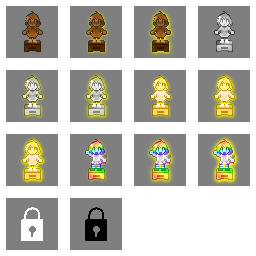
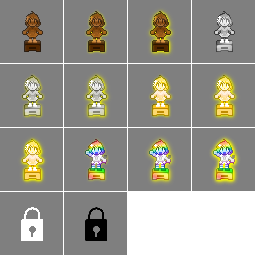
Update: Recordsの実績表示板の縦幅を調整

Changed region(s): [[0.0, 0.0, 1.0, 1.0]]

diff --git a/Src/Scene/Records.js b/Src/Scene/Records.js
@@ -10,7 +10,7 @@ const LinkedLayerTags	= {
 	BG:		"Records.Bg",
 };
 
-const PanelPosition		= {X:96,Y:20};
+const PanelPosition		= {X:16+64,Y:16};
 const RecordBoard	= {
 	MaxRows:			5,
 	MaxColumns:			2,
@@ -20,7 +20,7 @@ const RecordBoard	= {
 const AchievementBoard	= {
 	MaxRows:			4,
 	MaxColumns:			1,
-	Size:				{Width:270, Height:52},
+	Size:				{Width:32*11-64, Height:64-1},
 	NumLogLines:		4,
 };
 RecordBoard.Max			= RecordBoard.MaxRows * RecordBoard.MaxColumns;
@@ -181,7 +181,7 @@ Scene.Records	= class extends Scene.SceneBase {
 					}
 
 					const x	= Math.trunc(i/RecordBoard.MaxRows) * (RecordBoard.Size.Width+4);
-					const y	= (i%RecordBoard.MaxRows) * (RecordBoard.Size.Height+4);
+					const y	= (i%RecordBoard.MaxRows) * (RecordBoard.Size.Height);
 					board.body.bg.lower			= {width:RecordBoard.Size.Width, height:RecordBoard.Size.Height};
 					board.body.bg.animationDelay= 0.05*i;
 					if(isPublic){
@@ -224,7 +224,7 @@ Scene.Records	= class extends Scene.SceneBase {
 			//ラベル
 			this.displayBoards
 				.forEach((board,i)=>{
-					board.body.SetVisible(false).SetIcon(rc.img.achievement).SetIconPosition(4,6+3);
+					board.body.SetVisible(false).SetIcon(rc.img.achievement);
 					board.text.SetVisible(false);
 					board.foot.SetVisible(false);
 
@@ -254,8 +254,8 @@ Scene.Records	= class extends Scene.SceneBase {
 					board.rank		= handle.Rank || 0;
 					board.body.icon.SetCustomData("adjAnim",Math.trunc(Math.random()*8));
 
-					const x	= Math.trunc(i/AchievementBoard.MaxRows) * (AchievementBoard.Size.Width+4) + 52;
-					const y	= (i%AchievementBoard.MaxRows) * (AchievementBoard.Size.Height+4);
+					const x	= Math.trunc(i/AchievementBoard.MaxRows) * (AchievementBoard.Size.Width+64) + 64;
+					const y	= (i%AchievementBoard.MaxRows) * (AchievementBoard.Size.Height+1);
 					board.body.bg.lower			= {width:AchievementBoard.Size.Width, height:AchievementBoard.Size.Height};
 					board.body.bg.animationDelay= 0.05*i;
 					board.text.fieldWidth		= AchievementBoard.Size.Width;
